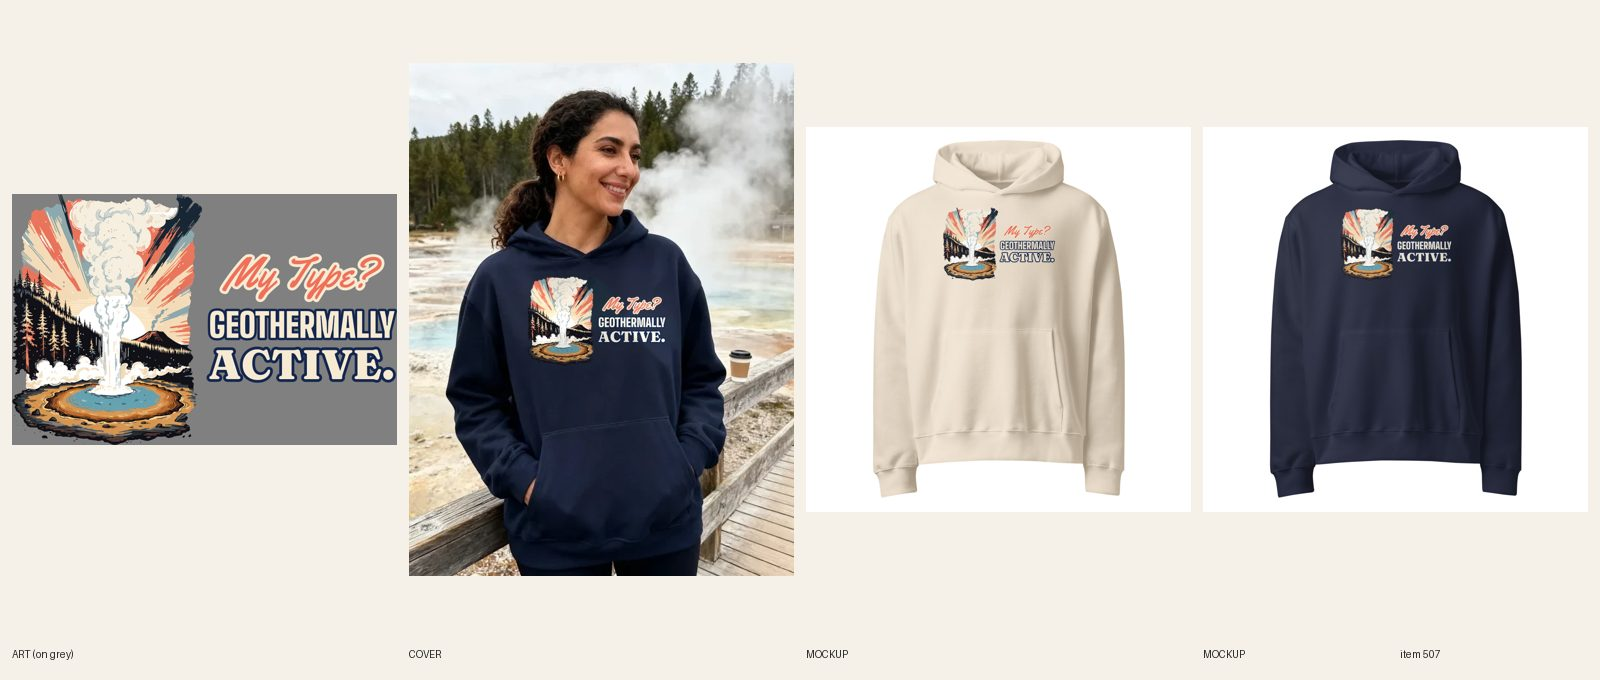
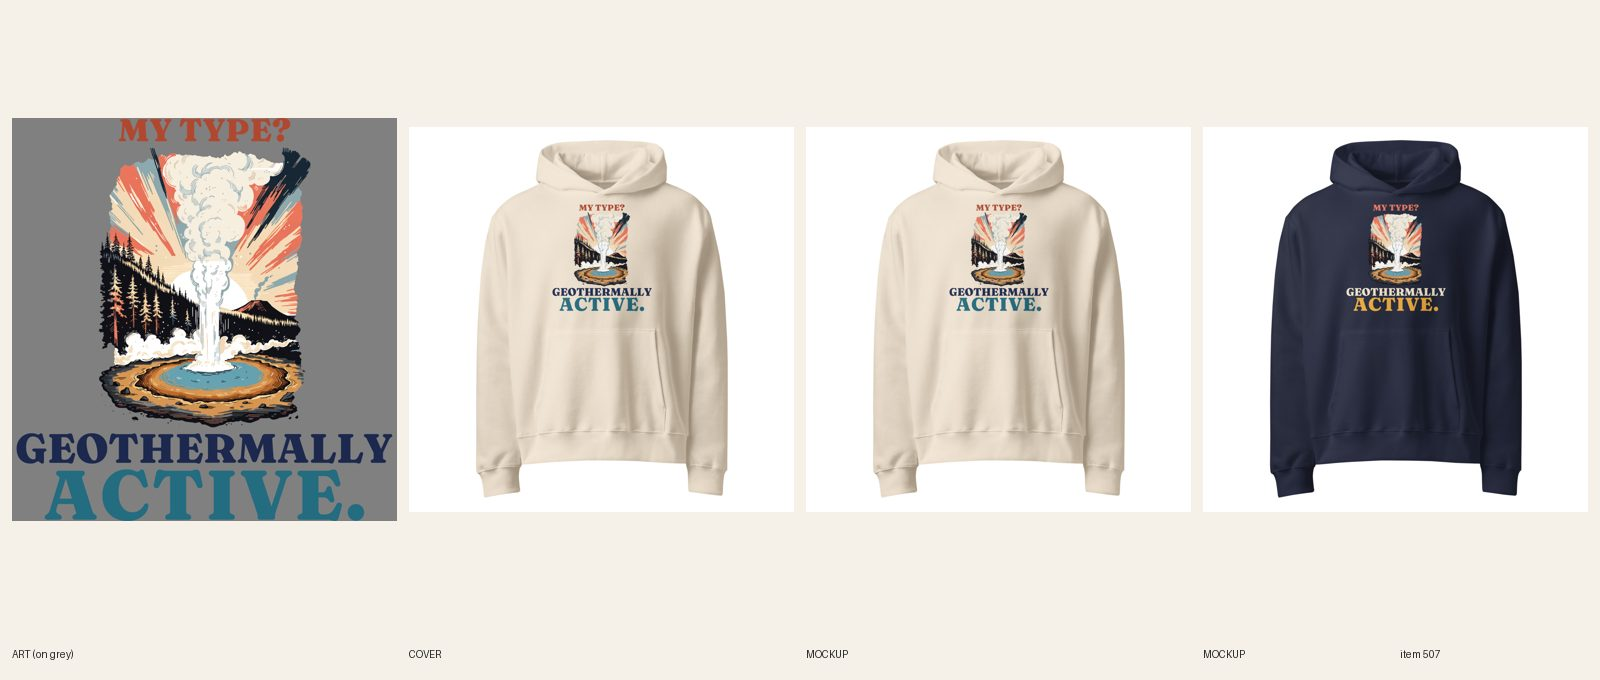
[C] review 507 My Type Geothermally Active oversized hoodie (type redo)
Claude-Session: https://claude.ai/code/session_01JwJkyoGoDx2tYMaDscgqaq

Changed region(s): [[0.0, 0.0926, 0.5, 0.8647], [0.8125, 0.2779, 0.9062, 0.4632], [0.5625, 0.2779, 0.6562, 0.4632]]

diff --git a/designs/c507/make.py b/designs/c507/make.py
@@ -1,0 +1,38 @@
+from PIL import Image, ImageDraw, ImageFont
+import sys
+src=Image.open('docs/print-files/507-my-type-geothermally-active.png').convert('RGBA')
+art=src.crop((0,0,1800,src.height)); art=art.crop(art.getbbox())
+W=int(sys.argv[1]); AWF=float(sys.argv[2])
+arts=art.resize((int(W*AWF),int(art.height*W*AWF/art.width)),Image.LANCZOS); AH=arts.height
+FD='designs/fonts/'
+def line(text,size,maxw,fill,track=0.0):
+    while True:
+        f=ImageFont.truetype(FD+'Fraunces[SOFT,WONK,opsz,wght].ttf',size); f.set_variation_by_axes([36,900,30,0])
+        adv=[f.getlength(c) for c in text]; t=int(size*track)
+        tot=int(sum(adv)+t*(len(text)-1))
+        if tot<=maxw: break
+        size=int(size*0.98)
+    asc,desc=f.getmetrics()
+    im=Image.new('RGBA',(tot+200,asc+desc+100),(0,0,0,0)); d=ImageDraw.Draw(im); x=100
+    for c,a in zip(text,adv):
+        d.text((x,50),c,font=f,fill=fill); x+=a+t
+    return im.crop(im.getbbox())
+def build(name,c1,c2,c3):
+    h1=line('MY TYPE?',900,int(W*0.46),c1,0.02)
+    h2=line('GEOTHERMALLY',900,W,c2,0.0)
+    h3=line('ACTIVE.',900,int(W*0.85),c3,0.03)
+    print(name,arts.size,h1.size,h2.size,h3.size,'h1/h2',h1.height/h2.height)
+    g=45
+    H=h1.height+g+AH+g+h2.height+g+h3.height
+    out=Image.new('RGBA',(W,H),(0,0,0,0)); y=0
+    for im in (h1,):
+        out.alpha_composite(im,((W-im.width)//2,y)); y+=im.height+g
+    out.alpha_composite(arts,((W-arts.width)//2,y)); y+=AH+g
+    out.alpha_composite(h2,((W-h2.width)//2,y)); y+=h2.height+g
+    out.alpha_composite(h3,((W-h3.width)//2,y))
+    out.save(f'designs/c507/{name}.png'); print(out.size,'aspect',H/W)
+    for tag,bgc in (('dark',(38,50,88,255)),('light',(206,190,170,255))):
+        bg=Image.new('RGBA',out.size,bgc); bg.alpha_composite(out); bg.convert('RGB').resize((600,int(600*H/W))).save(f'designs/c507/prev_{name}_{tag}.png')
+CORAL=(232,115,90,255); CREAM=(243,231,207,255); GOLD=(236,170,60,255); NAVY=(28,40,78,255); RUST=(176,72,48,255); TEAL=(36,108,128,255)
+build('print_dark',CORAL,CREAM,GOLD)
+build('print_light',RUST,NAVY,TEAL)

diff --git a/docs/intake-log.md b/docs/intake-log.md
@@ -1,6 +1,6 @@
 RUNNING lane B since 2026-10-20 02:32 UTC
 RUNNING lane A since 2026-10-20 02:28 UTC
-RUNNING lane C since 2026-10-20 02:23 UTC
+2026-10-20 02:30 UTC — [C] Builder run: redid #507 Women's My Type Geothermally Active oversized hoodie (type only, light/dark files, 12/12 relinked, 2 fronts replaced in place, copy updated). REVIEW. fal $0. Lock released.
 2026-10-20 02:17 UTC — [D] Director run (RESUMED). Took over a stale 22:12 lock (that run left no commits). Inbox: nothing new since the 17:55 note. LIVE 6 (cap): #385 #434 #487 #523 #538 #544 (approved 21:14 and held; all already ACTIVE + Online Store, Headless, Google & YouTube; audit --handle PASS 0 warn on all 6). Reviewed 10 new type-redo sheets (#336 #414 #474 #477 #481 #501 #558 #579 #632 #649), all at the new bar side by side with 493 and 483/479 (#477 cuff file read directly: SAID NOTHING. 0.31 in caps); approved and held at REVIEW. Shopify copy fixes (R8.3): #336 Story and meta said 'cookie jar', the art shows a teapot and one wrapped present; #474 meta said 'varsity lettering', now 'western'. No REDO. READY: A 13, B 12, C 12 (E 5); no new briefs needed. Overnight digest sent to Sam (48 redesigns live since midday). Held for next runs, in order: #548 #578 #618 #336 #414 #474 #477 #481 #501 #558 #579 #632 #649, then the 31 add-ons. Note: no builder commits since 22:13 UTC; lane B/C/E locks and BUILDING claims #358 #507 #650 are stale (helper's stuck-work check). Lock released.
 2026-10-19 22:06 UTC — [A] Builder run: redid #477 Women's Clocked It embroidered crewneck (type only: cat kept, heavy slab CLOCKED IT. at full cat width, SAID NOTHING. block letters on the cuff, white thread, 17/17 resynced, 4 images replaced in place, copy updated, plain product shot; fixed broken retired-covers.json comma). REVIEW. fal $0. Lock released.
 2026-10-19 22:41 UTC — [B] Builder run: redid #336 Women's Nana hoodie (type+line: NANA / WON'T TELL MOM., 12/12 relinked on 1089952064, 2 mockups replaced in place, copy updated, plain product shot). REVIEW. fal $0.

diff --git a/docs/pipeline/507-national-park-oversized-hoodie-geothermally-active.md b/docs/pipeline/507-national-park-oversized-hoodie-geothermally-active.md
@@ -1,4 +1,4 @@
-status: BUILDING [C] 2026-10-19 21:54 UTC
+status: REVIEW
 lane: C
 type: new
 id: 507
@@ -35,3 +35,4 @@ kd: 33
 - 2026-10-18 02:22 UTC builder [C]: Sync 12/12 on the new file. REVIEW.
 - 2026-10-18 03:30 UTC director: LIVE (ACTIVE + published, audit PASS). SEO title trimmed to 56 chars (was 65).
 - 2026-10-18 17:22 UTC director: QUALITY RESET grade B (type only), REDO. The product stays ACTIVE (same handle, URL, title keyword). Keep the line "My Type? / GEOTHERMALLY ACTIVE." and the art. 1. Type: Type block beside art about 50% width; small script My Type?. 2. Quality reset type bar (docs/backlog/quality-reset.md, 'The new bar'): headline at least 90% of the art width, heavy, colors pulled from the art; second line at least 45% of the headline's height, never a thin script on a dark or mid garment; use the lettering as a shape (arch, stacked lockup, words breaking into the art), not a plain bar above and a script line below; no font used on more than 1 in 6 of the last 30 designs. 3. New print file means a new cover per R6.10 and a fresh review sheet (R7.7). While quality-reset.md says PAUSED, only lane A builds, and only the samples step 2 names.
+- 2026-10-20 02:30 UTC builder [C]: REDO 507 type only (B grade): MY TYPE? Fraunces Black coral/rust, GEOTHERMALLY full print width, ACTIVE. gold/teal, same art (scene extracted from the old print) at 55% of width, aspect 1.05. Light file (Dust: rust/navy/teal ink, no cream fills) Printful 1090106848 / dark file (Navy: coral/cream/gold) 1090106835, FW 1500 TOP 30, 12/12 relinked, back logo kept. 2 fronts replaced in place; phone-size read ok on Dust and Navy. Story lettering sentence and Dust/Navy FAQ updated; line one unchanged (no R8.3 opener). Plain product shot (handle in retired-covers.json). audit --handle PASS 0 warn. fal $0. Sheet docs/review/507.jpg.
